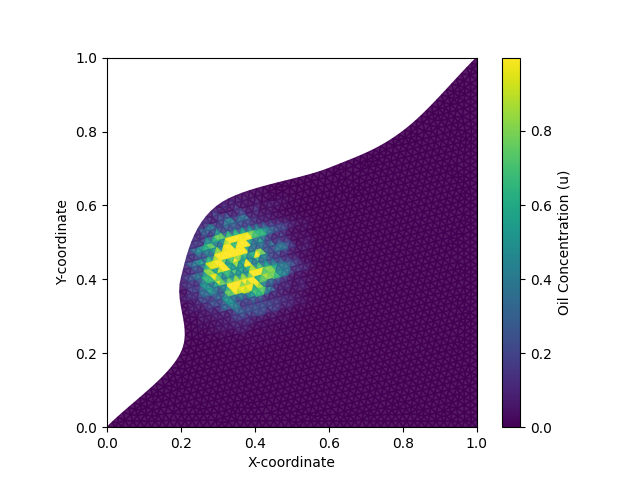
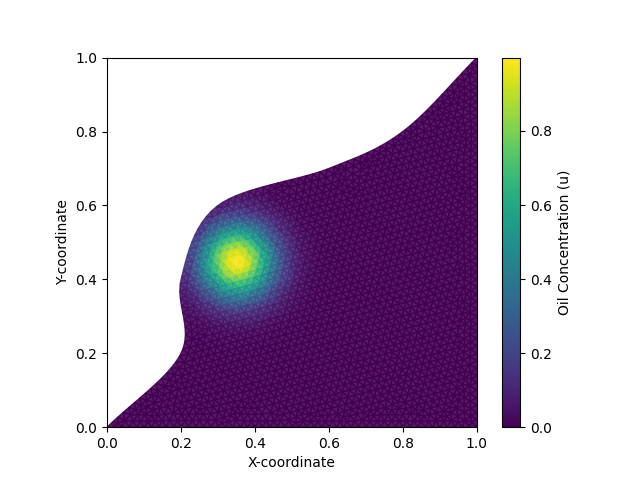
simulation works, need much more timesteps, BIG MAN TING YE!

Changed region(s): [[0.2812, 0.4375, 0.4688, 0.6562]]

diff --git a/msh_classes.py b/msh_classes.py
@@ -63,14 +63,14 @@ class Line(Cell): #line class, parent class: cell
     #finds neighbors and stores in list
     def store_neighbors(self, all_cells):
         for other_cell in all_cells: #checks all cells in mesh
-            if self._cell_index != other_cell._cell_index: #ensures diff. cells
+            if self._original_index != other_cell._original_index: #ensures diff. cells
                 shared_points = set(self._cell_points_id) & set(other_cell._cell_points_id) #hashes for pair points of cells
                 if isinstance(other_cell, Line) and len(shared_points) == 1: #if more or equal to 1 shared point, the other cell is a neighbor
-                    self._neighbors.append(other_cell._cell_index) #adds to list
+                    self._neighbors.append(other_cell._original_index) #adds to list
                     self._is_boundary = True
                     
                 elif len(shared_points) == 2:
-                    self._neighbors.append(other_cell._cell_index) #adds to list
+                    self._neighbors.append(other_cell._original_index) #adds to list
 
     def __str__(self): #prints info
         return f"Line {self._original_index}, Boundary: {self._is_boundary}, Neighbors: {self._neighbors}"
@@ -80,7 +80,7 @@ class Triangle(Cell): #triangle class, parent class: cell
 
     def store_neighbors(self, all_cells):
         for other_cell in all_cells: #checks all cells in mesh
-            if self._cell_index != other_cell._cell_index: #checks diff. cell
+            if self._original_index != other_cell._original_index: #checks diff. cell
                 shared_points = set(self._cell_points_id) & set(other_cell._cell_points_id) #hashes for pair points of cells
                 if len(shared_points) == 2: #if equal to 2 shared points, the othe cell is a neighbor
                     shared_points=list(shared_points)
@@ -153,7 +153,7 @@ class Triangle(Cell): #triangle class, parent class: cell
 
                 v = 0.5 * (self._v + mesh_cells[ngh_cell_id]._v)  
                 flux_value = flux(self._u, mesh_cells[ngh_cell_id]._u, scaled_normal, v)
-                up += up - delta_t / self._area * flux_value
+                up -= delta_t / self._area * flux_value
             
         self._u = self._u + up
 
